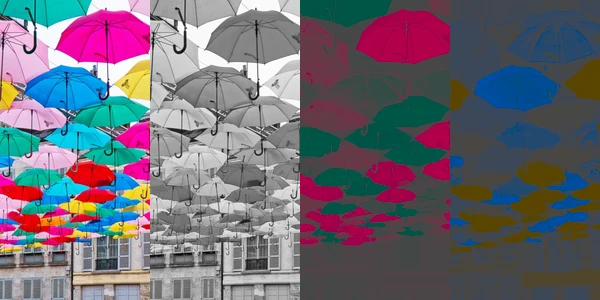
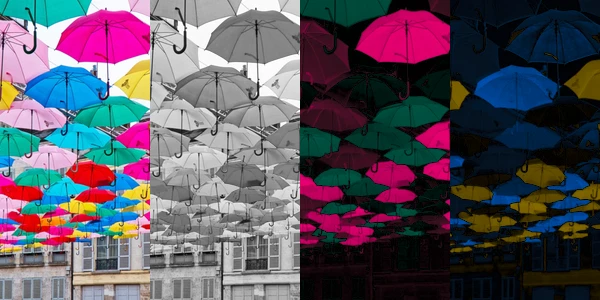
Change a*, b*, u* and v* visualisation
Scale luminance of the a*, b*, u* and v* channels with the value of the
channel.  The closer to zero it is, the darker the colour.  This elliminates
the grey which overpowers the visualisation.

diff --git a/src/spaces.rs b/src/spaces.rs
@@ -192,6 +192,9 @@ fn hwb_fill_channels(mut channels: Channels, rgb: Rgb) {
     channels.set_grey(2, 255 - max);
 }
 
+fn abuv_lstar(v: f32, min: f32, max: f32) -> f32 {
+    50.0 * (if v < 0.0 { v / min } else { v / max })
+}
 
 fn lab_fill_channels(mut channels: Channels, rgb: Rgb) {
     fn set(channels: &mut Channels, channel: usize, l: f32, a: f32, b: f32) {
@@ -199,8 +202,20 @@ fn lab_fill_channels(mut channels: Channels, rgb: Rgb) {
     }
     let lab = lab::Lab::from_rgb(&rgb);
     set(&mut channels, 0, lab.l, 0.0, 0.0);
-    set(&mut channels, 1, 30.0, lab.a, 0.0);
-    set(&mut channels, 2, 30.0, 0.0, lab.b);
+    set(
+        &mut channels,
+        1,
+        abuv_lstar(lab.a, -86.18078, 98.23698),
+        lab.a,
+        0.0,
+    );
+    set(
+        &mut channels,
+        2,
+        abuv_lstar(lab.b, -107.858345, 94.48001),
+        0.0,
+        lab.b,
+    );
 }
 
 fn lchab_fill_channels(mut channels: Channels, rgb: Rgb) {
@@ -219,8 +234,20 @@ fn luv_fill_channels(mut channels: Channels, rgb: Rgb) {
     }
     let luv = luv::Luv::from_rgb(&rgb);
     set(&mut channels, 0, luv.l, 0.0, 0.0);
-    set(&mut channels, 1, 30.0, luv.u, 0.0);
-    set(&mut channels, 2, 30.0, 0.0, luv.v);
+    set(
+        &mut channels,
+        1,
+        abuv_lstar(luv.u, -83.07059, 175.01141),
+        luv.u,
+        0.0,
+    );
+    set(
+        &mut channels,
+        2,
+        abuv_lstar(luv.v, -134.10574, 107.40619),
+        0.0,
+        luv.v,
+    );
 }
 
 fn lchuv_fill_channels(mut channels: Channels, rgb: Rgb) {
